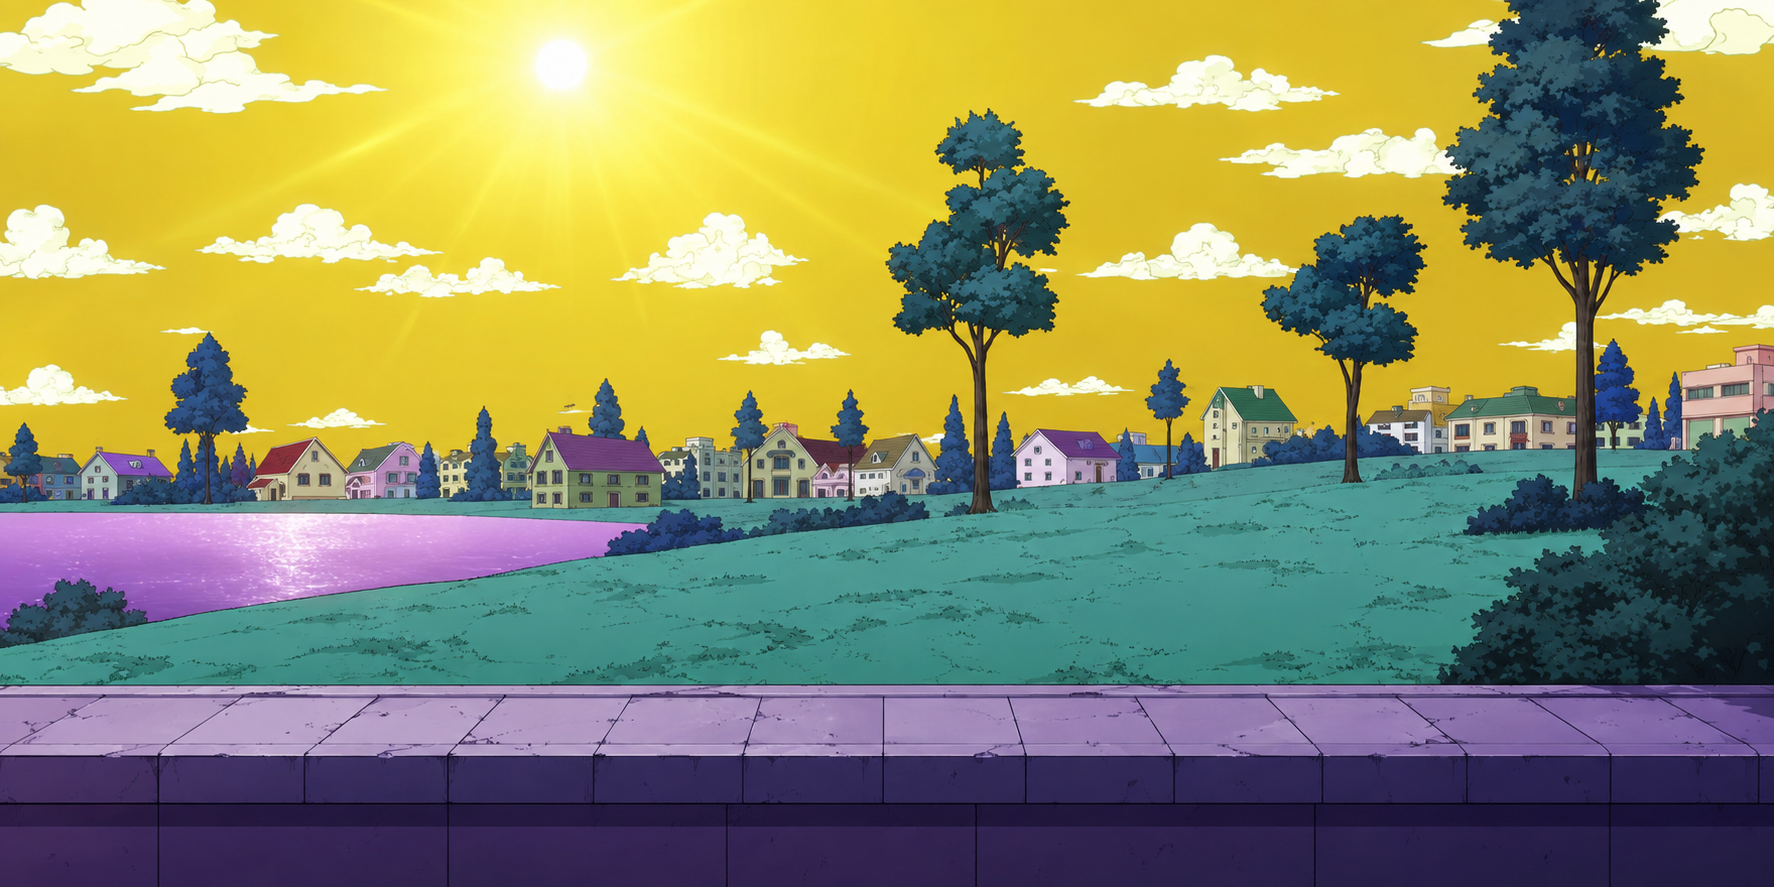
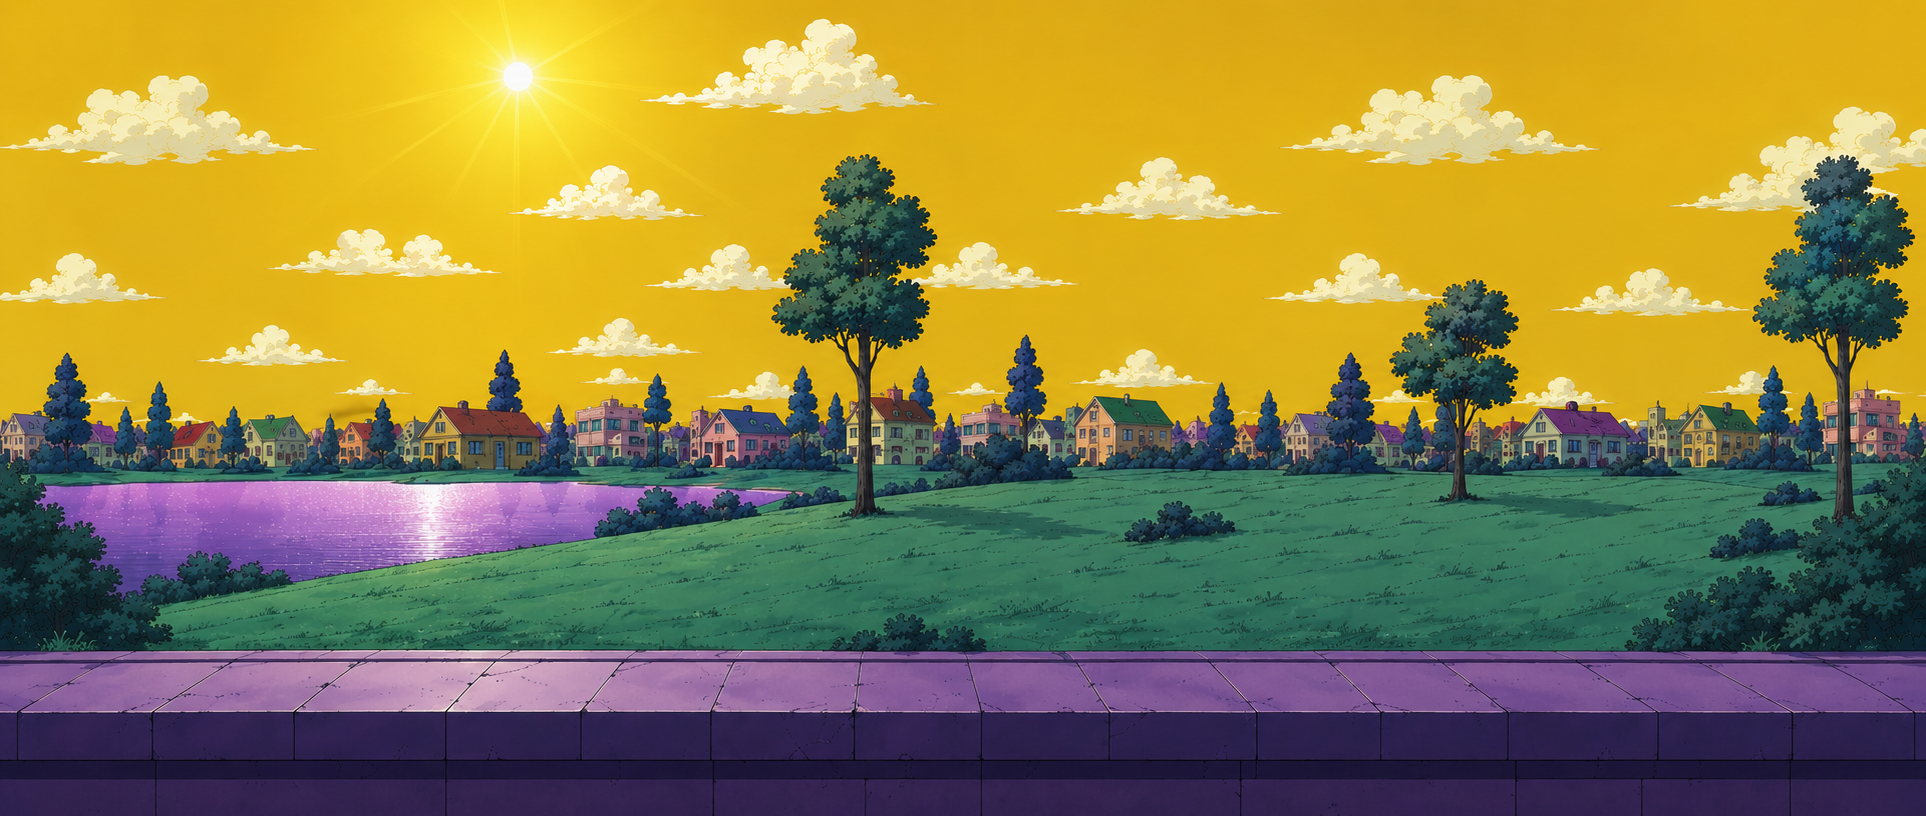
Adição de fundo estático para dinâmico e correção de chão

diff --git a/core/src/main/java/mz/ac/ucm/eden/screens/GameScreen.java b/core/src/main/java/mz/ac/ucm/eden/screens/GameScreen.java
@@ -23,6 +23,8 @@ public class GameScreen implements Screen {
     private Game game;
     private Texture background;
 
+    private static final float PARALLAX_FACTOR = 0.35f;
+
     public GameScreen() {
     }
 
@@ -38,16 +40,16 @@ public class GameScreen implements Screen {
 
         background = new Texture(Gdx.files.internal("Morioh.png"));
 
-        player = new Player(new Vector2(100, 200));
+        player = new Player(new Vector2(100, Player.GROUND_Y));
         platforms = new Array<>();
         controller = new VirtualController();
         Gdx.input.setInputProcessor(controller.getStage()); // Regista o input aqui, não no construtor do VirtualController
 
-        // Montagem do nível de teste (Chão contínuo + plataformas suspensas)
-        platforms.add(new SuperPlataform(0, 50, 1200, 30));      // Chão principal
-        platforms.add(new SuperPlataform(300, 150, 200, 20));    // Plataforma 1
-        platforms.add(new SuperPlataform(600, 230, 180, 20));    // Plataforma 2
-        platforms.add(new SuperPlataform(850, 180, 250, 20));    // Plataforma 3
+        // Montagem do nível (Chão alinhado ao piso da imagem Morioh + plataformas suspensas no ar)
+        platforms.add(new SuperPlataform(0, 0, 100000, Player.GROUND_Y, false)); // Chão contínuo invisível no nível do piso
+        platforms.add(new SuperPlataform(300, 150, 200, 20));    // Plataforma suspensa 1
+        platforms.add(new SuperPlataform(600, 230, 180, 20));    // Plataforma suspensa 2
+        platforms.add(new SuperPlataform(850, 180, 250, 20));    // Plataforma suspensa 3
     }
 
     @Override
@@ -68,10 +70,23 @@ public class GameScreen implements Screen {
         batch.setProjectionMatrix(camera.combined);
         batch.begin();
 
-        // Fundo — desenhado primeiro e posicionado relativo à câmera para acompanhar a tela
-        float bgX = camera.position.x - (camera.viewportWidth / 2f);
-        float bgY = camera.position.y - (camera.viewportHeight / 2f);
-        batch.draw(background, bgX, bgY, camera.viewportWidth, camera.viewportHeight);
+        // Fundo (Morioh) — efeito parallax com repetição horizontal conforme o personagem anda
+        float bgHeight = camera.viewportHeight;
+        float bgWidth = bgHeight * (background.getWidth() / (float) background.getHeight());
+        float camLeft = camera.position.x - (camera.viewportWidth / 2f);
+        float camBottom = camera.position.y - (camera.viewportHeight / 2f);
+
+        // Deslocamento parallax baseado na posição do jogador (inicia em x=100)
+        float bgOffset = ((player.getPosition().x - 100f) * PARALLAX_FACTOR) % bgWidth;
+        if (bgOffset < 0) {
+            bgOffset += bgWidth;
+        }
+
+        // Desenha repetições contínuas para cobrir toda a extensão visível da viewport
+        float startX = camLeft - bgOffset;
+        for (float x = startX; x < camLeft + camera.viewportWidth; x += bgWidth) {
+            batch.draw(background, x, camBottom, bgWidth, bgHeight);
+        }
 
         for (SuperPlataform platform : platforms) {
             platform.render(batch);

diff --git a/core/src/main/java/mz/ac/ucm/eden/entities/Player.java b/core/src/main/java/mz/ac/ucm/eden/entities/Player.java
@@ -21,6 +21,8 @@ public class Player {
     private Vector2 velocity;
     private Rectangle bounds;
 
+    public static final float GROUND_Y = 60f; // Nível alinhado ao piso da imagem Morioh.png
+
     private static final float GRAVITY = -1500f;
     private static final float JUMP_VELOCITY = 600f;
     private static final float MOVE_SPEED = 250f;
@@ -86,20 +88,24 @@ public class Player {
         position.x += velocity.x * delta;
         position.y += velocity.y * delta;
 
-        bounds.setPosition(position.x, position.y);
-
-        // Atualiza estado do jogador
-        if (!isGrounded) {
-            if (velocity.y > 50) {
-                currentState = State.JUMPING;
-            } else {
-                currentState = State.FALLING;
-            }
-        } else if (Math.abs(velocity.x) > 10) {
-            currentState = State.RUNNING;
+        // Limite inferior absoluto: o chão da imagem Morioh
+        // O personagem nunca cai abaixo do chão e nunca desaparece da tela
+        if (position.y <= GROUND_Y) {
+            position.y = GROUND_Y;
+            velocity.y = 0;
+            isGrounded = true;
         } else {
-            currentState = State.IDLE;
+            // No ar (caindo de plataforma suspensa ou no ápice do pulo)
+            isGrounded = false;
         }
+
+        // Limite à esquerda para não sair do início da fase
+        if (position.x < 0) {
+            position.x = 0;
+        }
+
+        bounds.setPosition(position.x, position.y);
+        updateState();
     }
 
     public void handleInput(VirtualController controller) {
@@ -126,11 +132,12 @@ public class Player {
     }
 
     public void handlePlatformCollision(Rectangle platform) {
-        // Colisão por cima (Piso)
+        // Colisão por cima (Piso de plataforma suspensa)
         if (velocity.y <= 0 && position.y + 12 >= platform.y + platform.height) {
             position.y = platform.y + platform.height;
             velocity.y = 0;
             isGrounded = true;
+            updateState();
         }
         // Colisão por baixo (Teto)
         else if (velocity.y > 0 && position.y + bounds.height - 12 <= platform.y) {
@@ -138,6 +145,20 @@ public class Player {
             velocity.y = 0;
         }
         bounds.setPosition(position.x, position.y);
+    }
+
+    public void updateState() {
+        if (!isGrounded) {
+            if (velocity.y > 50) {
+                currentState = State.JUMPING;
+            } else {
+                currentState = State.FALLING;
+            }
+        } else if (Math.abs(velocity.x) > 10) {
+            currentState = State.RUNNING;
+        } else {
+            currentState = State.IDLE;
+        }
     }
 
     public void render(SpriteBatch batch) {

diff --git a/core/src/main/java/mz/ac/ucm/eden/entities/SuperPlataform.java b/core/src/main/java/mz/ac/ucm/eden/entities/SuperPlataform.java
@@ -8,27 +8,47 @@ import com.badlogic.gdx.math.Rectangle;
 public class SuperPlataform {
     private Rectangle bounds;
     private Texture texture;
+    private boolean visible = true;
 
     public SuperPlataform(float x, float y, float width, float height) {
-        this.bounds = new Rectangle(x, y, width, height);
+        this(x, y, width, height, true);
+    }
 
-        // Criando uma textura de bloco de cor sólida simples para prototipagem
-        Pixmap pixmap = new Pixmap((int) width, (int) height, Pixmap.Format.RGBA8888);
-        pixmap.setColor(0.3f, 0.7f, 0.3f, 1f); // Verde
-        pixmap.fill();
-        this.texture = new Texture(pixmap);
-        pixmap.dispose();
+    public SuperPlataform(float x, float y, float width, float height, boolean visible) {
+        this.bounds = new Rectangle(x, y, width, height);
+        this.visible = visible;
+
+        if (visible) {
+            // Criando uma textura de bloco de cor sólida simples para prototipagem
+            Pixmap pixmap = new Pixmap((int) Math.max(1, width), (int) Math.max(1, height), Pixmap.Format.RGBA8888);
+            pixmap.setColor(0.3f, 0.7f, 0.3f, 1f); // Verde
+            pixmap.fill();
+            this.texture = new Texture(pixmap);
+            pixmap.dispose();
+        }
     }
 
     public void render(SpriteBatch batch) {
-        batch.draw(texture, bounds.x, bounds.y, bounds.width, bounds.height);
+        if (visible && texture != null) {
+            batch.draw(texture, bounds.x, bounds.y, bounds.width, bounds.height);
+        }
     }
 
     public Rectangle getBounds() {
         return bounds;
     }
 
+    public boolean isVisible() {
+        return visible;
+    }
+
+    public void setVisible(boolean visible) {
+        this.visible = visible;
+    }
+
     public void dispose() {
-        texture.dispose();
+        if (texture != null) {
+            texture.dispose();
+        }
     }
 }
